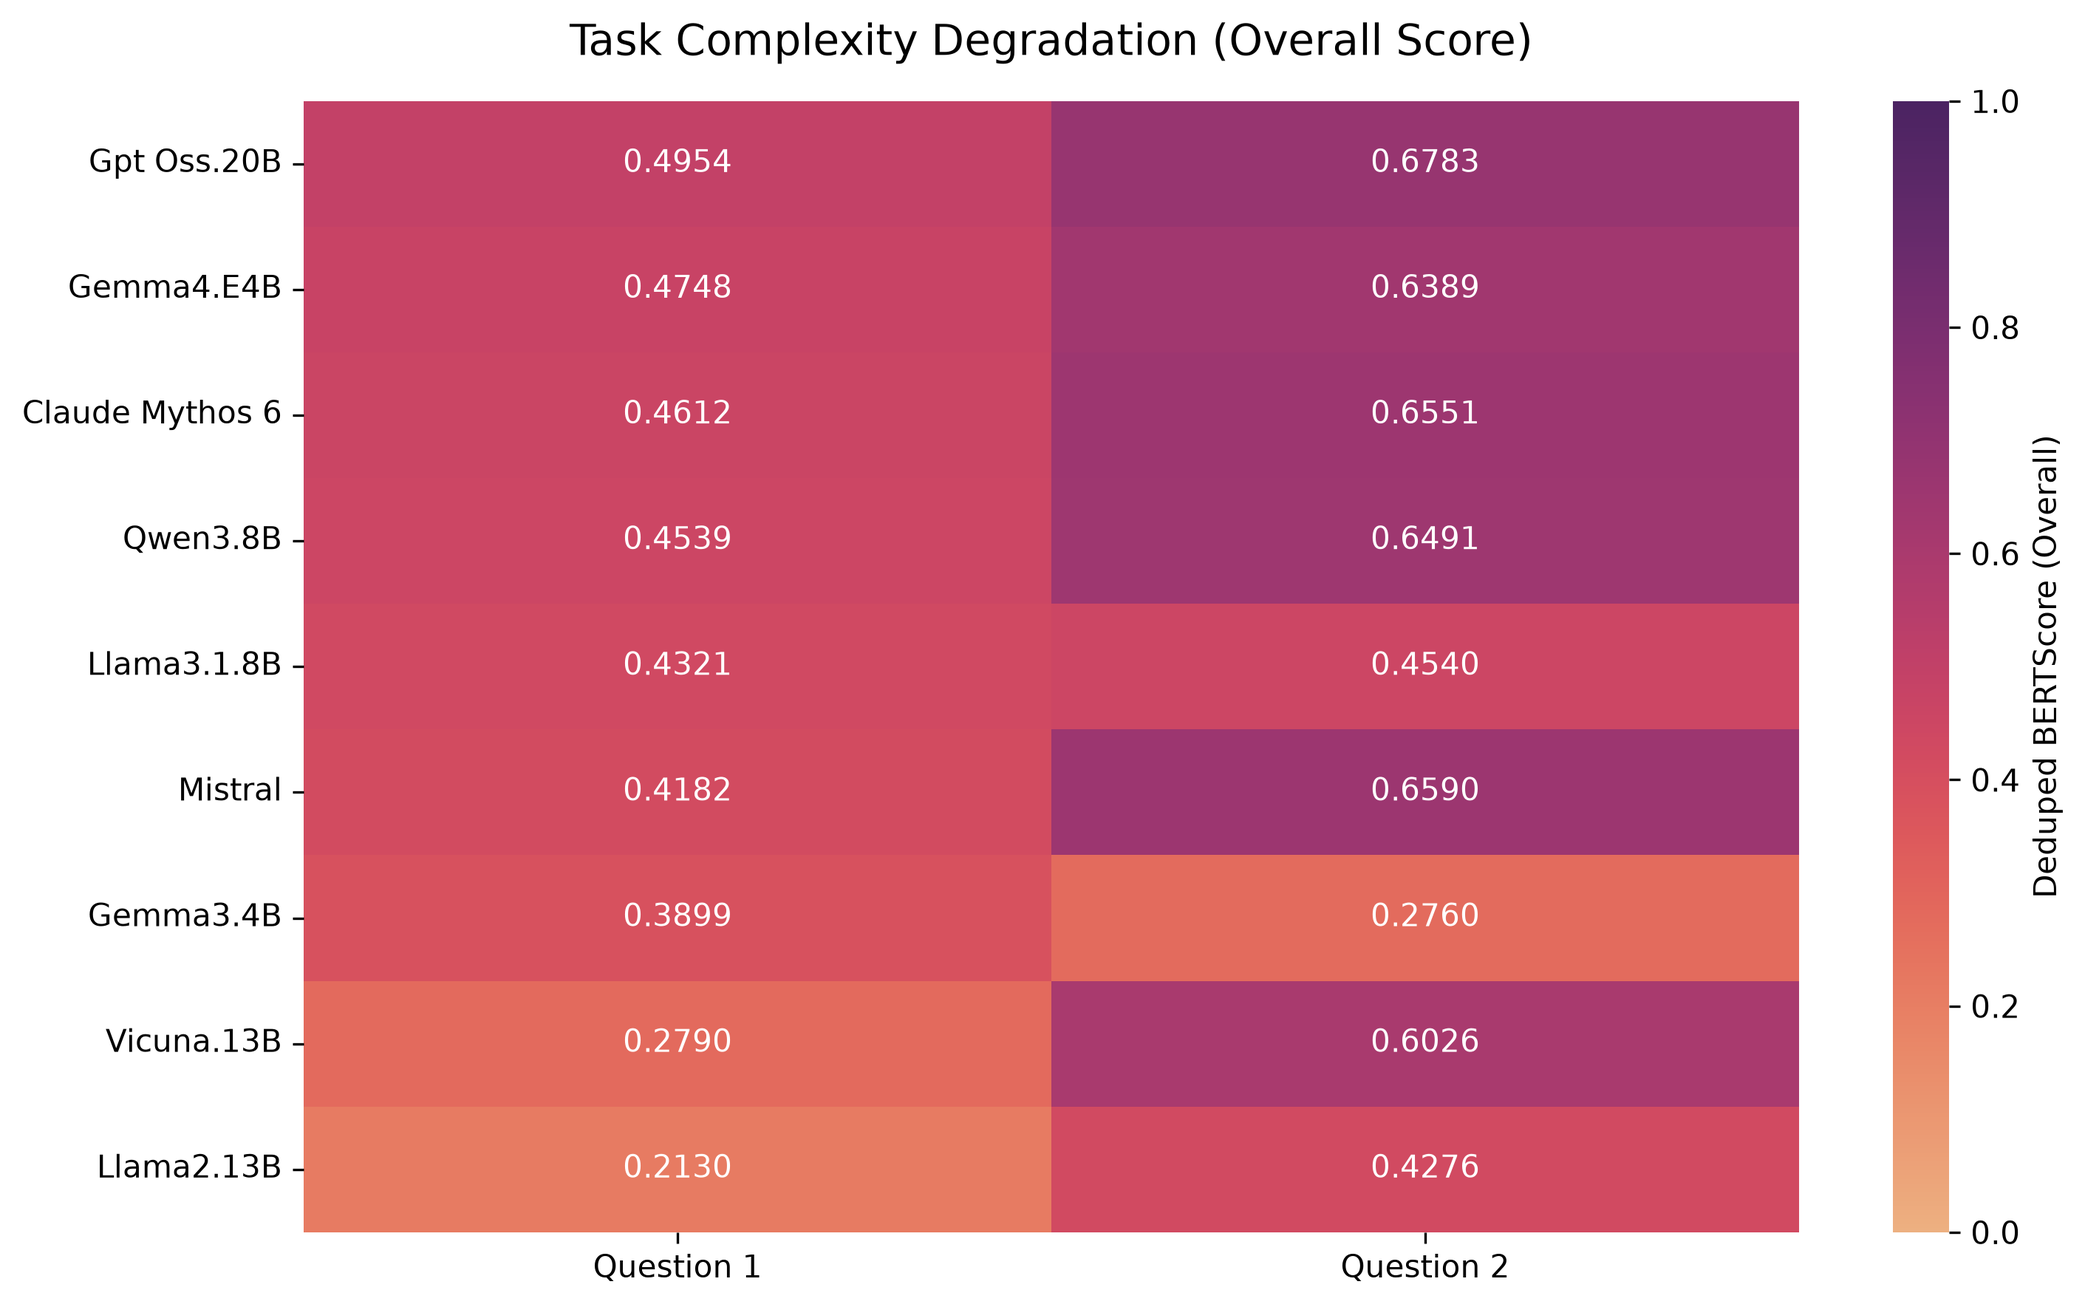
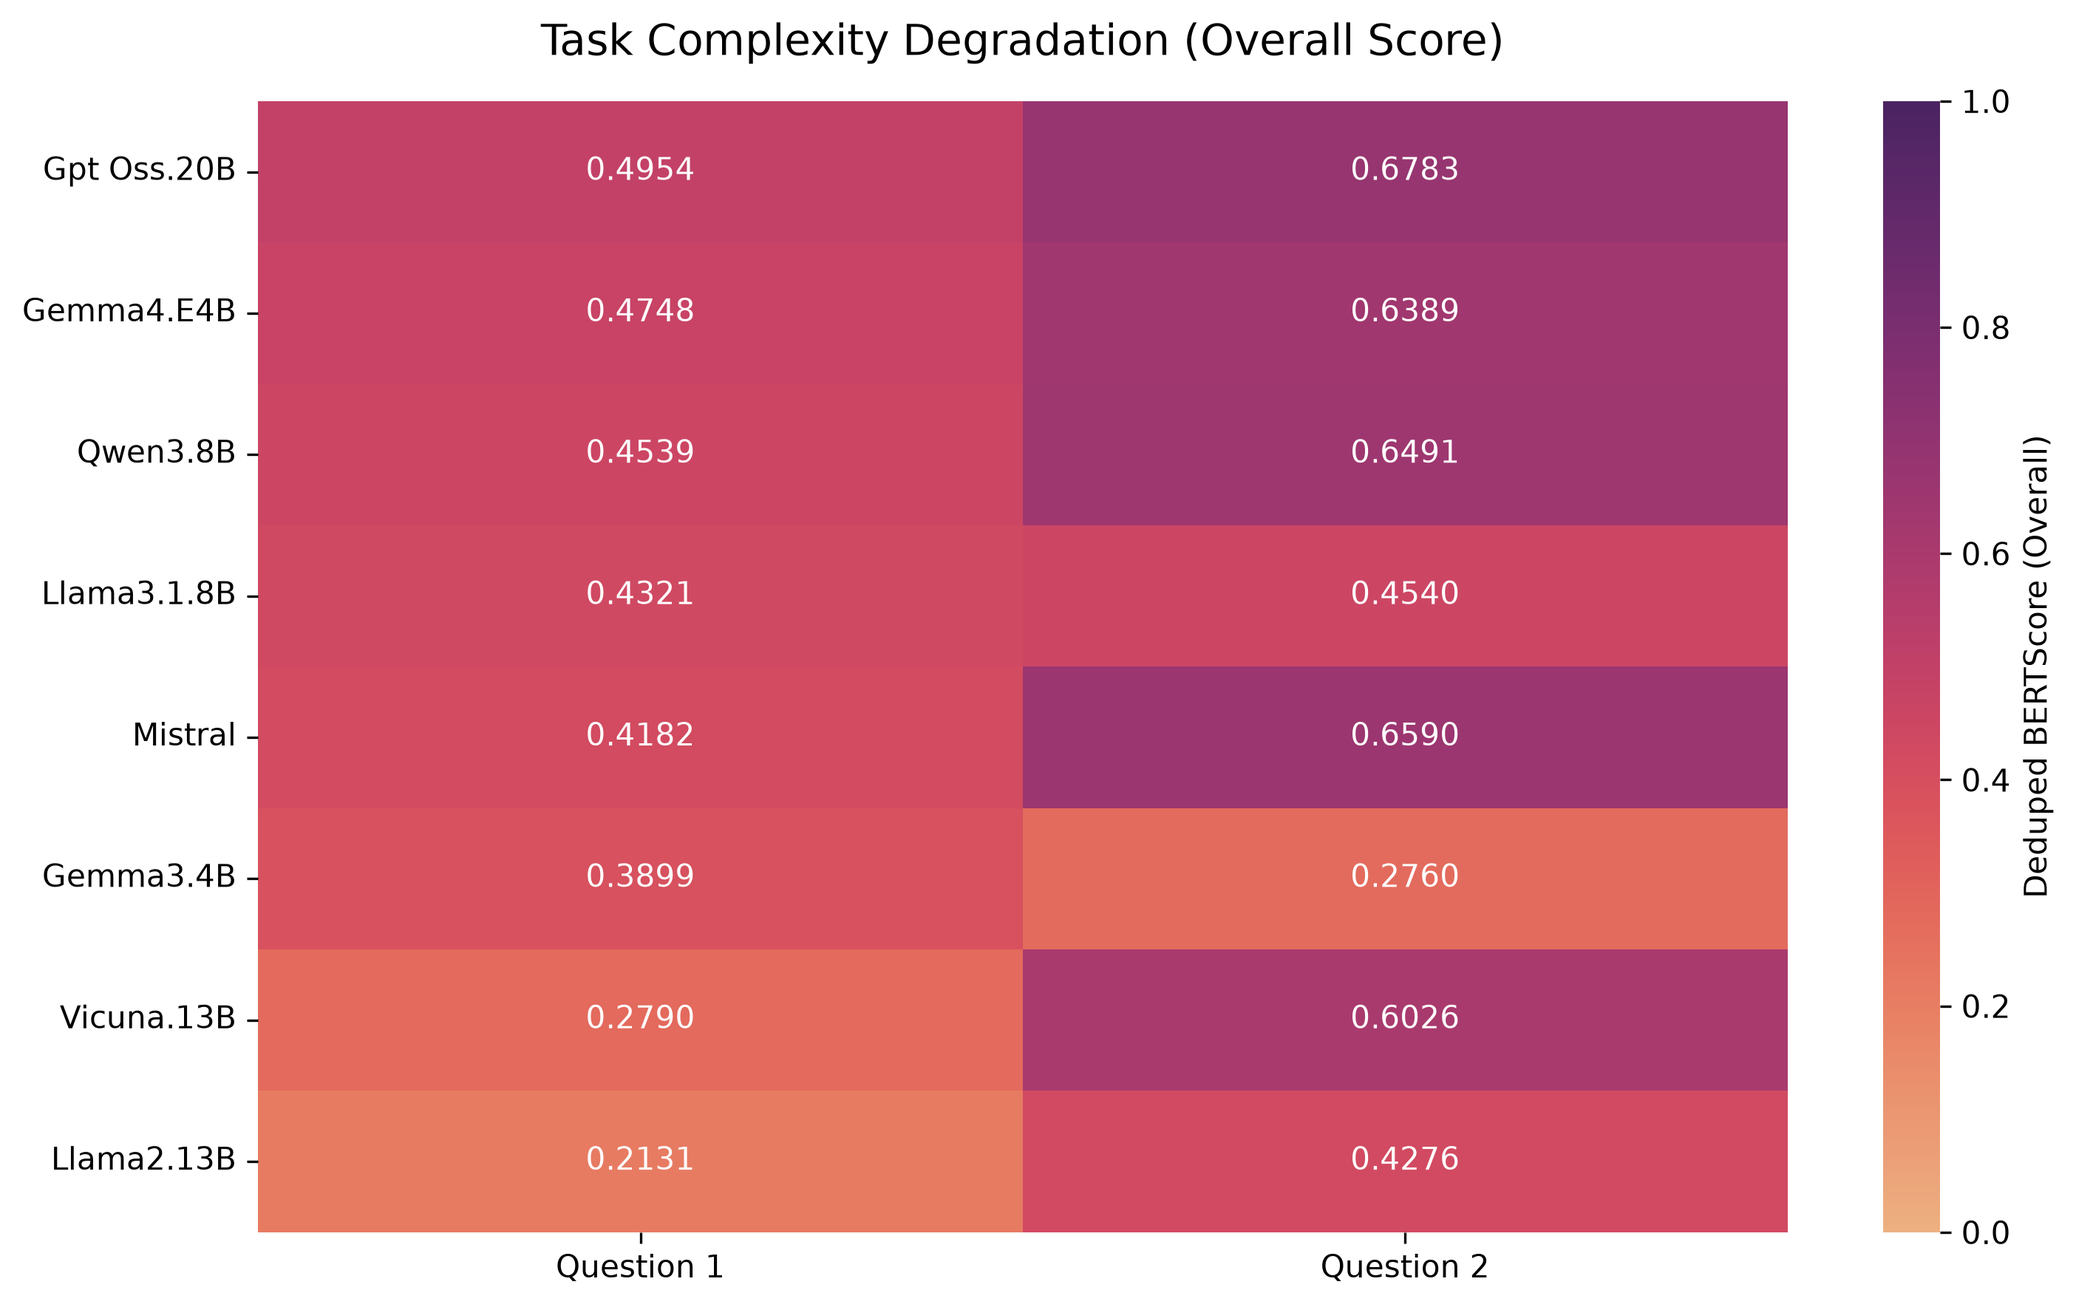
no claude mythos
regen eval reports

diff --git a/evaluation/evaluation_report.md b/evaluation/evaluation_report.md
@@ -1,21 +1,20 @@
 # LLM Evaluation Report
-**Total Models Evaluated:** 9
+**Total Models Evaluated:** 8
 **Total Documents Processed:** 1574
 
 ## Part 1: Global Benchmark Leaderboard (SQuAD 2.0 Standard)
 > *All text metrics formatted as (Overall / HasAns)*
 
-| Model           |   Doc Count |   Avg Spans |   Abstention (NoAns) |   Missed Answer Rate | Span F1 (Overall / HasAns)   | Labeled Span F1 (Overall / HasAns)   | SQuAD Token F1 (Overall / HasAns)   | BERTScore (Overall / HasAns)   | Deduped BERTScore (Overall / HasAns)   |
-|:----------------|------------:|------------:|---------------------:|---------------------:|:-----------------------------|:-------------------------------------|:------------------------------------|:-------------------------------|:---------------------------------------|
-| Gpt Oss.20B     |        1574 |        3.8  |                 0.57 |                 0.07 | 0.48 / 0.42                  | 0.48 / 0.41                          | 0.56 / 0.56                         | 0.57 / 0.58                    | 0.57 / 0.57                            |
-| Gemma4.E4B      |        1574 |        3.82 |                 0.54 |                 0.06 | 0.46 / 0.41                  | 0.45 / 0.39                          | 0.54 / 0.54                         | 0.54 / 0.55                    | 0.54 / 0.55                            |
-| Qwen3.8B        |        1574 |        3.32 |                 0.54 |                 0.07 | 0.46 / 0.41                  | 0.45 / 0.40                          | 0.52 / 0.51                         | 0.54 / 0.54                    | 0.53 / 0.53                            |
-| Claude Mythos 6 |        1574 |        4.79 |                 0.55 |                 0.07 | 0.46 / 0.39                  | 0.45 / 0.38                          | 0.53 / 0.51                         | 0.54 / 0.53                    | 0.54 / 0.53                            |
-| Llama3.1.8B     |        1574 |        3.86 |                 0.35 |                 0.04 | 0.37 / 0.38                  | 0.35 / 0.35                          | 0.43 / 0.49                         | 0.44 / 0.51                    | 0.44 / 0.51                            |
-| Gemma3.4B       |        1574 |        6.31 |                 0.15 |                 0.02 | 0.25 / 0.33                  | 0.24 / 0.30                          | 0.32 / 0.44                         | 0.33 / 0.46                    | 0.34 / 0.48                            |
-| Mistral         |        1574 |        2.82 |                 0.66 |                 0.19 | 0.45 / 0.31                  | 0.45 / 0.31                          | 0.51 / 0.40                         | 0.52 / 0.42                    | 0.52 / 0.42                            |
-| Vicuna.13B      |        1574 |        3.83 |                 0.63 |                 0.27 | 0.37 / 0.19                  | 0.36 / 0.18                          | 0.42 / 0.27                         | 0.41 / 0.26                    | 0.41 / 0.27                            |
-| Llama2.13B      |        1574 |        1.5  |                 0.46 |                 0.45 | 0.27 / 0.14                  | 0.26 / 0.12                          | 0.29 / 0.18                         | 0.30 / 0.19                    | 0.30 / 0.19                            |
+| Model       |   Doc Count |   Avg Spans |   Abstention (NoAns) |   Missed Answer Rate | Span F1 (Overall / HasAns)   | Labeled Span F1 (Overall / HasAns)   | SQuAD Token F1 (Overall / HasAns)   | BERTScore (Overall / HasAns)   | Deduped BERTScore (Overall / HasAns)   |
+|:------------|------------:|------------:|---------------------:|---------------------:|:-----------------------------|:-------------------------------------|:------------------------------------|:-------------------------------|:---------------------------------------|
+| Gpt Oss.20B |        1574 |        3.8  |                 0.57 |                 0.07 | 0.48 / 0.42                  | 0.48 / 0.41                          | 0.56 / 0.56                         | 0.57 / 0.58                    | 0.57 / 0.57                            |
+| Gemma4.E4B  |        1574 |        3.82 |                 0.54 |                 0.06 | 0.46 / 0.41                  | 0.45 / 0.39                          | 0.54 / 0.54                         | 0.54 / 0.55                    | 0.54 / 0.55                            |
+| Qwen3.8B    |        1574 |        3.32 |                 0.54 |                 0.07 | 0.46 / 0.41                  | 0.45 / 0.40                          | 0.52 / 0.51                         | 0.54 / 0.54                    | 0.53 / 0.53                            |
+| Llama3.1.8B |        1574 |        3.86 |                 0.35 |                 0.04 | 0.37 / 0.38                  | 0.35 / 0.35                          | 0.43 / 0.49                         | 0.44 / 0.51                    | 0.44 / 0.51                            |
+| Gemma3.4B   |        1574 |        6.31 |                 0.15 |                 0.02 | 0.25 / 0.33                  | 0.24 / 0.30                          | 0.32 / 0.44                         | 0.33 / 0.46                    | 0.34 / 0.48                            |
+| Mistral     |        1574 |        2.82 |                 0.66 |                 0.19 | 0.45 / 0.31                  | 0.45 / 0.31                          | 0.51 / 0.40                         | 0.52 / 0.42                    | 0.52 / 0.42                            |
+| Vicuna.13B  |        1574 |        3.83 |                 0.63 |                 0.27 | 0.37 / 0.19                  | 0.36 / 0.18                          | 0.42 / 0.27                         | 0.41 / 0.26                    | 0.41 / 0.27                            |
+| Llama2.13B  |        1574 |        1.5  |                 0.46 |                 0.45 | 0.27 / 0.14                  | 0.26 / 0.12                          | 0.29 / 0.18                         | 0.30 / 0.19                    | 0.30 / 0.19                            |
 
 ## Part 2: Visual Insights
 
@@ -43,17 +42,16 @@
 
 
 ### Question 1 Leaderboard
-| Model           |   Doc Count |   Avg Spans |   Abstention (NoAns) |   Missed Answer Rate | Span F1 (Overall / HasAns)   | Labeled Span F1 (Overall / HasAns)   | SQuAD Token F1 (Overall / HasAns)   | BERTScore (Overall / HasAns)   | Deduped BERTScore (Overall / HasAns)   |
-|:----------------|------------:|------------:|---------------------:|---------------------:|:-----------------------------|:-------------------------------------|:------------------------------------|:-------------------------------|:---------------------------------------|
-| Gpt Oss.20B     |         923 |        5.93 |                 0.02 |                 0    | 0.36 / 0.45                  | 0.36 / 0.45                          | 0.48 / 0.59                         | 0.50 / 0.62                    | 0.50 / 0.61                            |
-| Gemma4.E4B      |         923 |        6.07 |                 0.02 |                 0    | 0.35 / 0.43                  | 0.35 / 0.43                          | 0.46 / 0.58                         | 0.48 / 0.59                    | 0.47 / 0.59                            |
-| Claude Mythos 6 |         923 |        7.58 |                 0.02 |                 0    | 0.34 / 0.42                  | 0.34 / 0.42                          | 0.44 / 0.54                         | 0.46 / 0.56                    | 0.46 / 0.57                            |
-| Qwen3.8B        |         923 |        4.93 |                 0.03 |                 0.03 | 0.35 / 0.43                  | 0.35 / 0.43                          | 0.43 / 0.52                         | 0.46 / 0.56                    | 0.45 / 0.56                            |
-| Llama3.1.8B     |         923 |        5.51 |                 0.02 |                 0.01 | 0.33 / 0.40                  | 0.33 / 0.40                          | 0.41 / 0.51                         | 0.43 / 0.54                    | 0.43 / 0.53                            |
-| Mistral         |         923 |        4.65 |                 0.06 |                 0.03 | 0.31 / 0.37                  | 0.31 / 0.37                          | 0.40 / 0.48                         | 0.42 / 0.50                    | 0.42 / 0.51                            |
-| Gemma3.4B       |         923 |        9.07 |                 0.01 |                 0.01 | 0.26 / 0.33                  | 0.26 / 0.33                          | 0.36 / 0.45                         | 0.38 / 0.47                    | 0.39 / 0.49                            |
-| Vicuna.13B      |         923 |        6.02 |                 0.3  |                 0.21 | 0.22 / 0.20                  | 0.22 / 0.20                          | 0.28 / 0.28                         | 0.28 / 0.27                    | 0.28 / 0.27                            |
-| Llama2.13B      |         923 |        1.67 |                 0.44 |                 0.5  | 0.17 / 0.11                  | 0.17 / 0.11                          | 0.20 / 0.14                         | 0.21 / 0.16                    | 0.21 / 0.16                            |
+| Model       |   Doc Count |   Avg Spans |   Abstention (NoAns) |   Missed Answer Rate | Span F1 (Overall / HasAns)   | Labeled Span F1 (Overall / HasAns)   | SQuAD Token F1 (Overall / HasAns)   | BERTScore (Overall / HasAns)   | Deduped BERTScore (Overall / HasAns)   |
+|:------------|------------:|------------:|---------------------:|---------------------:|:-----------------------------|:-------------------------------------|:------------------------------------|:-------------------------------|:---------------------------------------|
+| Gpt Oss.20B |         923 |        5.93 |                 0.02 |                 0    | 0.36 / 0.45                  | 0.36 / 0.45                          | 0.48 / 0.59                         | 0.50 / 0.62                    | 0.50 / 0.61                            |
+| Gemma4.E4B  |         923 |        6.07 |                 0.02 |                 0    | 0.35 / 0.43                  | 0.35 / 0.43                          | 0.46 / 0.58                         | 0.48 / 0.59                    | 0.47 / 0.59                            |
+| Qwen3.8B    |         923 |        4.93 |                 0.03 |                 0.03 | 0.35 / 0.43                  | 0.35 / 0.43                          | 0.43 / 0.52                         | 0.46 / 0.56                    | 0.45 / 0.56                            |
+| Llama3.1.8B |         923 |        5.51 |                 0.02 |                 0.01 | 0.33 / 0.40                  | 0.33 / 0.40                          | 0.41 / 0.51                         | 0.43 / 0.54                    | 0.43 / 0.53                            |
+| Mistral     |         923 |        4.65 |                 0.06 |                 0.03 | 0.31 / 0.37                  | 0.31 / 0.37                          | 0.40 / 0.48                         | 0.42 / 0.50                    | 0.42 / 0.51                            |
+| Gemma3.4B   |         923 |        9.07 |                 0.01 |                 0.01 | 0.26 / 0.33                  | 0.26 / 0.33                          | 0.36 / 0.45                         | 0.38 / 0.47                    | 0.39 / 0.49                            |
+| Vicuna.13B  |         923 |        6.02 |                 0.3  |                 0.21 | 0.22 / 0.20                  | 0.22 / 0.20                          | 0.28 / 0.28                         | 0.28 / 0.27                    | 0.28 / 0.27                            |
+| Llama2.13B  |         923 |        1.67 |                 0.44 |                 0.5  | 0.17 / 0.11                  | 0.17 / 0.11                          | 0.20 / 0.14                         | 0.21 / 0.16                    | 0.21 / 0.16                            |
 
 #### Plot A: Text Extraction Precision & Recall (Q1)
 > *This isolates reading comprehension: Did the model locate the correct phrases? HasAns-only bars at exact span match — one operating point per model.*
@@ -61,17 +59,16 @@
 
 
 ### Question 2 Leaderboard
-| Model           |   Doc Count |   Avg Spans |   Abstention (NoAns) |   Missed Answer Rate | Span F1 (Overall / HasAns)   | Labeled Span F1 (Overall / HasAns)   | SQuAD Token F1 (Overall / HasAns)   | BERTScore (Overall / HasAns)   | Deduped BERTScore (Overall / HasAns)   |
-|:----------------|------------:|------------:|---------------------:|---------------------:|:-----------------------------|:-------------------------------------|:------------------------------------|:-------------------------------|:---------------------------------------|
-| Gemma3.4B       |         651 |        2.4  |                 0.21 |                 0.07 | 0.24 / 0.33                  | 0.20 / 0.18                          | 0.28 / 0.44                         | 0.27 / 0.44                    | 0.28 / 0.44                            |
-| Qwen3.8B        |         651 |        1.03 |                 0.74 |                 0.19 | 0.62 / 0.33                  | 0.60 / 0.27                          | 0.66 / 0.47                         | 0.65 / 0.44                    | 0.65 / 0.44                            |
-| Gpt Oss.20B     |         651 |        0.77 |                 0.78 |                 0.3  | 0.65 / 0.33                  | 0.64 / 0.28                          | 0.68 / 0.44                         | 0.68 / 0.42                    | 0.68 / 0.42                            |
-| Llama3.1.8B     |         651 |        1.53 |                 0.48 |                 0.16 | 0.43 / 0.31                  | 0.39 / 0.17                          | 0.46 / 0.41                         | 0.45 / 0.39                    | 0.45 / 0.40                            |
-| Claude Mythos 6 |         651 |        0.83 |                 0.77 |                 0.34 | 0.63 / 0.28                  | 0.61 / 0.22                          | 0.66 / 0.39                         | 0.65 / 0.38                    | 0.66 / 0.38                            |
-| Gemma4.E4B      |         651 |        0.65 |                 0.75 |                 0.27 | 0.62 / 0.31                  | 0.60 / 0.25                          | 0.65 / 0.40                         | 0.64 / 0.38                    | 0.64 / 0.38                            |
-| Llama2.13B      |         651 |        1.26 |                 0.47 |                 0.3  | 0.40 / 0.24                  | 0.37 / 0.15                          | 0.43 / 0.33                         | 0.43 / 0.33                    | 0.43 / 0.34                            |
-| Vicuna.13B      |         651 |        0.71 |                 0.76 |                 0.48 | 0.58 / 0.17                  | 0.56 / 0.08                          | 0.61 / 0.24                         | 0.60 / 0.23                    | 0.60 / 0.23                            |
-| Mistral         |         651 |        0.23 |                 0.9  |                 0.83 | 0.66 / 0.07                  | 0.65 / 0.05                          | 0.66 / 0.07                         | 0.66 / 0.07                    | 0.66 / 0.07                            |
+| Model       |   Doc Count |   Avg Spans |   Abstention (NoAns) |   Missed Answer Rate | Span F1 (Overall / HasAns)   | Labeled Span F1 (Overall / HasAns)   | SQuAD Token F1 (Overall / HasAns)   | BERTScore (Overall / HasAns)   | Deduped BERTScore (Overall / HasAns)   |
+|:------------|------------:|------------:|---------------------:|---------------------:|:-----------------------------|:-------------------------------------|:------------------------------------|:-------------------------------|:---------------------------------------|
+| Gemma3.4B   |         651 |        2.4  |                 0.21 |                 0.07 | 0.24 / 0.33                  | 0.20 / 0.18                          | 0.28 / 0.44                         | 0.27 / 0.44                    | 0.28 / 0.44                            |
+| Qwen3.8B    |         651 |        1.03 |                 0.74 |                 0.19 | 0.62 / 0.33                  | 0.60 / 0.27                          | 0.66 / 0.47                         | 0.65 / 0.44                    | 0.65 / 0.44                            |
+| Gpt Oss.20B |         651 |        0.77 |                 0.78 |                 0.3  | 0.65 / 0.33                  | 0.64 / 0.28                          | 0.68 / 0.44                         | 0.68 / 0.42                    | 0.68 / 0.42                            |
+| Llama3.1.8B |         651 |        1.53 |                 0.48 |                 0.16 | 0.43 / 0.31                  | 0.39 / 0.17                          | 0.46 / 0.41                         | 0.45 / 0.39                    | 0.45 / 0.40                            |
+| Gemma4.E4B  |         651 |        0.65 |                 0.75 |                 0.27 | 0.62 / 0.31                  | 0.60 / 0.25                          | 0.65 / 0.40                         | 0.64 / 0.38                    | 0.64 / 0.38                            |
+| Llama2.13B  |         651 |        1.26 |                 0.47 |                 0.3  | 0.40 / 0.24                  | 0.37 / 0.15                          | 0.43 / 0.33                         | 0.43 / 0.33                    | 0.43 / 0.34                            |
+| Vicuna.13B  |         651 |        0.71 |                 0.76 |                 0.48 | 0.58 / 0.17                  | 0.56 / 0.08                          | 0.61 / 0.24                         | 0.60 / 0.23                    | 0.60 / 0.23                            |
+| Mistral     |         651 |        0.23 |                 0.9  |                 0.83 | 0.66 / 0.07                  | 0.65 / 0.05                          | 0.66 / 0.07                         | 0.66 / 0.07                    | 0.66 / 0.07                            |
 
 #### Plot A: Text Extraction Precision & Recall (Q2)
 > *This isolates reading comprehension: Did the model locate the correct phrases? HasAns-only bars at exact span match — one operating point per model.*
